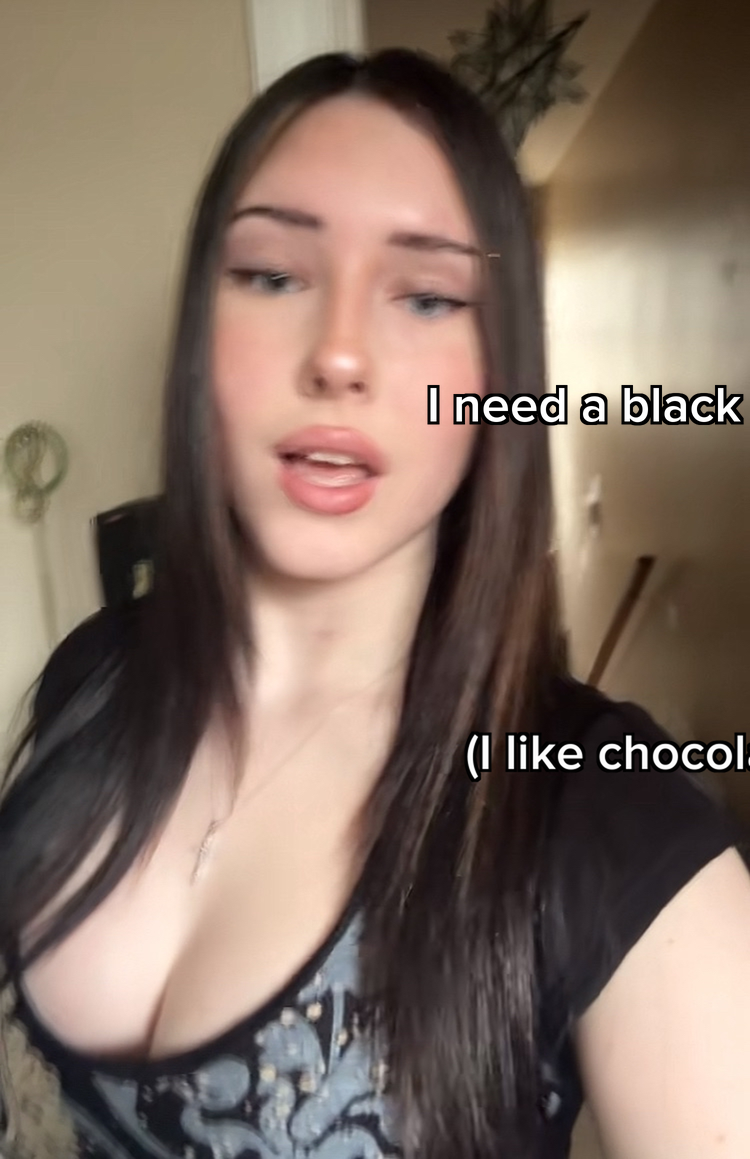
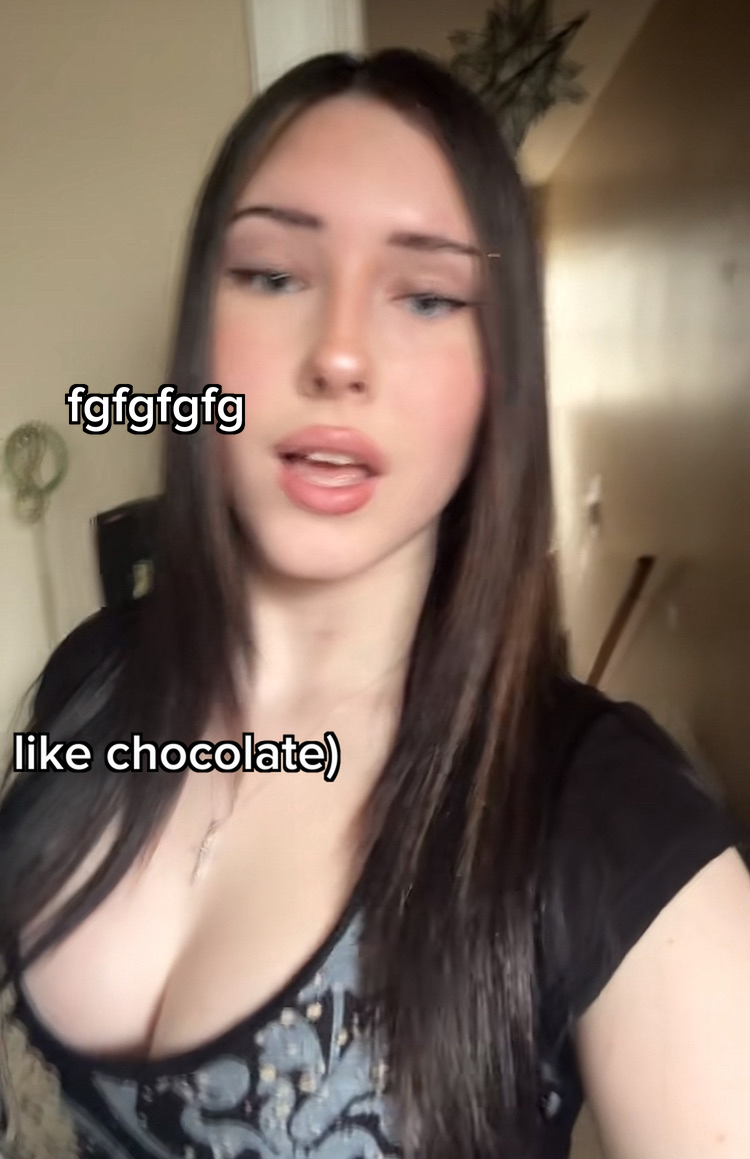
CRITICAL: Fix multi-caption to use separate X and Y positions for each caption

diff --git a/text/generate_image.py b/text/generate_image.py
@@ -135,31 +135,52 @@ def generate_image(settings: Dict[str, Any], text_type: str, colour_index: int, 
     
     # NEW: Multi-caption support using '||' delimiter.
     # Example: "Top caption || Bottom caption"
-    # Renders multiple captions at evenly spaced vertical anchors.
+    # Renders multiple captions with separate positions for each.
     parts = [p.strip() for p in text.split("||")] if "||" in text else [text]
     if len(parts) == 1:
         return renderer(**final_settings)
     
-    # Render multiple captions: compute anchor positions across usable area
-    n = len(parts)
-    # Use margins to avoid drawing into edges
-    top_margin_ratio = calculated_margins["top"] / height if height > 0 else 0.05
-    bottom_margin_ratio = calculated_margins["bottom"] / height if height > 0 else 0.05
-    usable_top = max(top_margin_ratio, 0.05)
-    usable_bottom = 1.0 - max(bottom_margin_ratio, 0.05)
-    # Evenly spaced anchors between usable_top..usable_bottom
-    anchors = [
-        usable_top + (i + 1) * (usable_bottom - usable_top) / (n + 1)
-        for i in range(n)
-    ]
+    # Render multiple captions with separate positions
+    # Try to get extra caption settings from streamlit session state
+    extra_settings = None
+    try:
+        import streamlit as st
+        extra_settings = st.session_state.get("extra_caption_settings", None)
+    except:
+        pass
     
-    # Sequentially render each caption onto the same image
     img = image
     for idx, part in enumerate(parts):
         local_settings = dict(final_settings)
         local_settings["image"] = img
         local_settings["text"] = part
-        local_settings["height_center_position"] = anchors[idx]
+        
+        if idx == 0:
+            # FIRST caption (main) - uses the original calculated position
+            # Already set in final_settings
+            pass
+        else:
+            # EXTRA captions - use extra_caption_settings if available
+            if extra_settings and extra_settings.get("vertical_position"):
+                v_pos_extra = extra_settings["vertical_position"]
+                if isinstance(v_pos_extra, list) and len(v_pos_extra) >= 2:
+                    v_pos_val = random.uniform(v_pos_extra[0], v_pos_extra[1])
+                else:
+                    v_pos_val = v_pos_extra[0] if isinstance(v_pos_extra, list) else float(v_pos_extra)
+                local_settings["height_center_position"] = v_pos_val
+            else:
+                # Fallback: position at 0.65 (lower portion of image)
+                local_settings["height_center_position"] = 0.65
+            
+            if extra_settings and extra_settings.get("horizontal_position"):
+                h_pos_extra = extra_settings["horizontal_position"]
+                if isinstance(h_pos_extra, list) and len(h_pos_extra) >= 2:
+                    h_pos_val = random.uniform(h_pos_extra[0], h_pos_extra[1])
+                else:
+                    h_pos_val = h_pos_extra[0] if isinstance(h_pos_extra, list) else float(h_pos_extra)
+                local_settings["width_center_position"] = h_pos_val
+            # else: keep same X as main caption (original behavior)
+        
         img = renderer(**local_settings)
     
     return img
